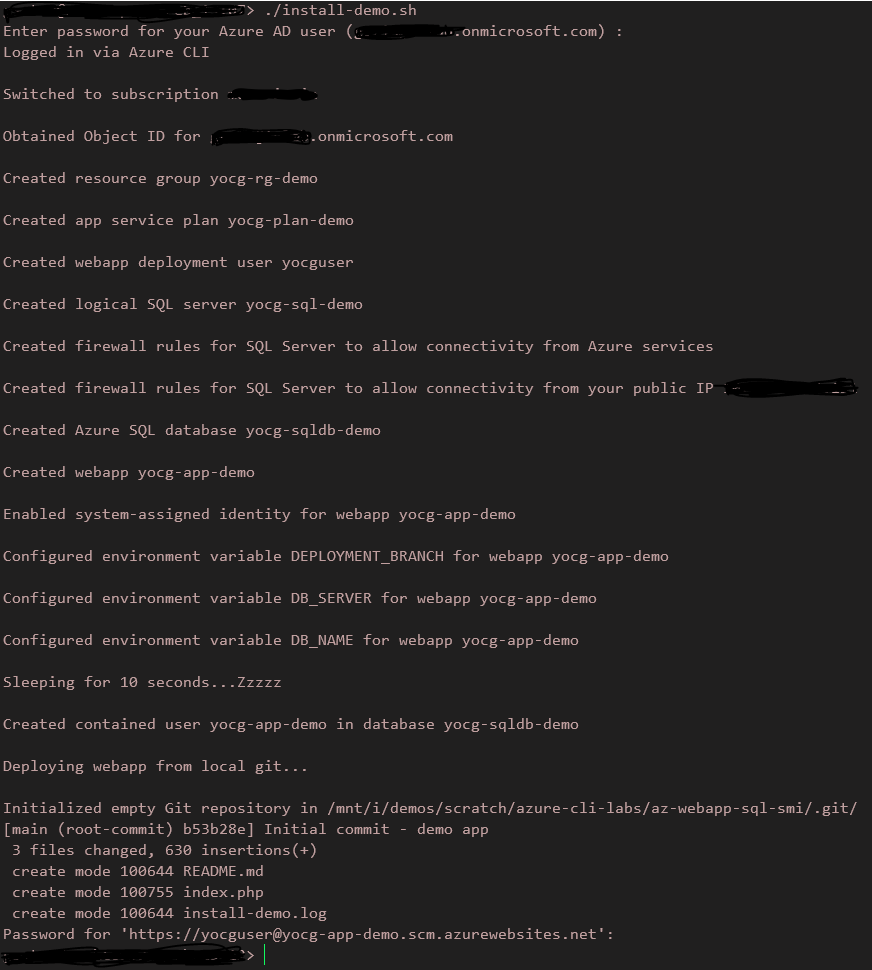
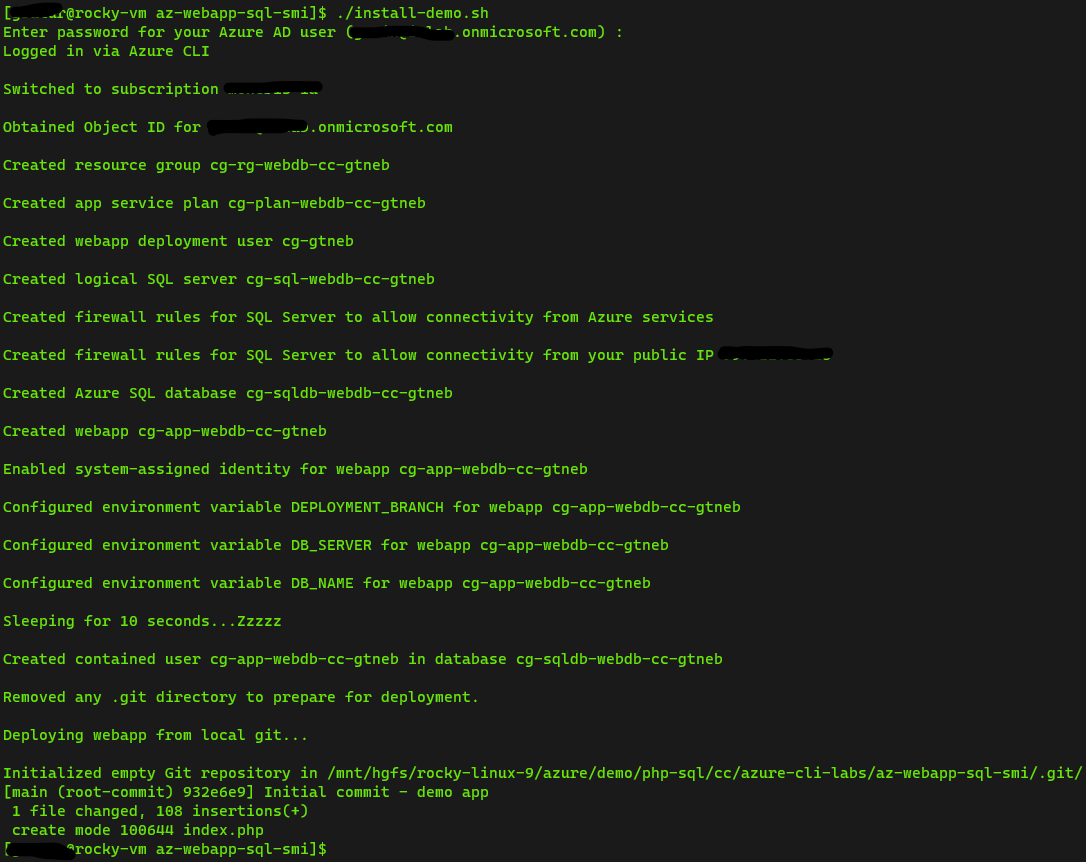
* Fixed bug in obtaining user objectId * Removed redundant prompt for git user password * Removed redundant config * Determine latest PHP runtime for app service * Choose better SKU for app service plan (B1)

diff --git a/az-webapp-sql-smi/index.php b/az-webapp-sql-smi/index.php
@@ -22,7 +22,7 @@
  </head>
  <body>
 <p align="justify">
-	This sample PHP demo web application (adapted from <a href="https://github.com/uglide/azure-content/blob/master/articles/app-service-web/web-sites-php-sql-database-deploy-use-git.md" target="_blank">here</a>) may be used with the accompanying guidelines in this git repo, for deployment on an <b>Azure App Service Plan</b> with an <b>Azure SQL Database</b> (connection enabled by a <b>system-assigned managed identity</b>). 
+	This sample <a href="https://github.com/cybergavin/azure-cli-labs/tree/master/az-webapp-sql-smi">PHP demo web application</a> (adapted from <a href="https://github.com/uglide/azure-content/blob/master/articles/app-service-web/web-sites-php-sql-database-deploy-use-git.md" target="_blank">here</a>) may be used with the accompanying guidelines in this git repo, for deployment on an <b>Azure App Service Plan</b> with an <b>Azure SQL Database</b> (connection enabled by a <b>system-assigned managed identity</b>). 
 </p>
 <br /> 
 <?php
@@ -43,12 +43,7 @@ echo "The <b>Connection string</b> used for Azure SQL with a system-assigned man
        <input type="submit" name="submit" value="Submit" />
  </form>
  <?php
- // Connect to database using a user-assigned managed identity. Obtain connection details from environment variables.
- //$db_server = getenv("DB_SERVER");
- //$db_name = getenv("DB_NAME");
-
-try {
-	//$connectionInfo = "Database = $db_name; Authentication = ActiveDirectoryMsi;";
+ try {
 	$conn = new PDO($connectionString);
     $conn->setAttribute( PDO::ATTR_ERRMODE, PDO::ERRMODE_EXCEPTION );
  }

diff --git a/az-webapp-sql-smi/README.md b/az-webapp-sql-smi/README.md
@@ -1,13 +1,14 @@
 # PHP Web Application (Azure App Service) with Azure SQL
 
-- A demo of a simple PHP web application deployed on an Azure App Service Plan and connects to an Azure SQL Database using a system-assigned managed identity (enabled for the web application).
+- A demo of a simple, single-page PHP web application deployed on an Azure App Service Plan and connects to an Azure SQL Database using a system-assigned managed identity (enabled for the web application).
 - Creates the following Azure resources:
     - Resource Group for all the required resources
-    - App Service Plan to host the web application
+    - A Linux App Service Plan (B1 SKU) to host the web application
     - Web Application (App Service)
     - Logical SQL Server
     - Azure SQL Database
 - As Azure PaaS services are used, these services are public by default. However, the Azure SQL Server will deny connectivity by default and allow only Azure services (e.g. App Service webapp) and your public IP to connect.
+- All azure resources will be suffixed by a random 5-character string to attempt uniqueness for their names.
 
 ---
 
@@ -15,7 +16,8 @@
 ## Requirements
 
 The following requirements must be met to launch this lab/demo successfully:
-- Use a Linux system (any distro, WSL)
+- Linux (any distro, WSL)
+- Perl (usually available with any modern Linux distro)
 - **sqlcmd** command line utility for connecting to Azure SQL must be installed.  Refer the [Microsoft docs](https://docs.microsoft.com/en-us/sql/linux/sql-server-linux-setup-tools?view=sql-server-ver15). Ensure that *sqlcmd* is in the PATH.
 - **Azure CLI** must be installed
 - **git** must be installed
@@ -26,11 +28,10 @@ The following requirements must be met to launch this lab/demo successfully:
 
 ## Usage
 - Clone the git repo - `git clone https://github.com/cybergavin/azure-cli-labs.git`
-- Switch directory - `cd az-webapp-sql-smi`
+- Switch directory - `cd azure-cli-labs\az-webapp-sql-smi`
 - Modify the config `install-demo.cfg` as required. 
 - Launch demo - `bash install-demo.sh`
 
-**NOTE:** You will be required to enter the password for your Azure AD user twice - intially for the demo build and again for the deployment of the single page PHP webapp from your local git.
 
 **Launching demo**
 
@@ -48,6 +49,7 @@ The following requirements must be met to launch this lab/demo successfully:
 
 ## Environment Tested
 This lab was tested in the following environment:
-- WSL 1 (Fedora Remix) on Windows 10
+
+- WSL 1 (Fedora Remix) on Windows 10 / Rocky Linux 9 VM on VMware Workstation 15 Pro
 - Azure AD user with Contributor role on an Azure subscription
 - Internet connectivity allowing my workstation to connect to Azure services
